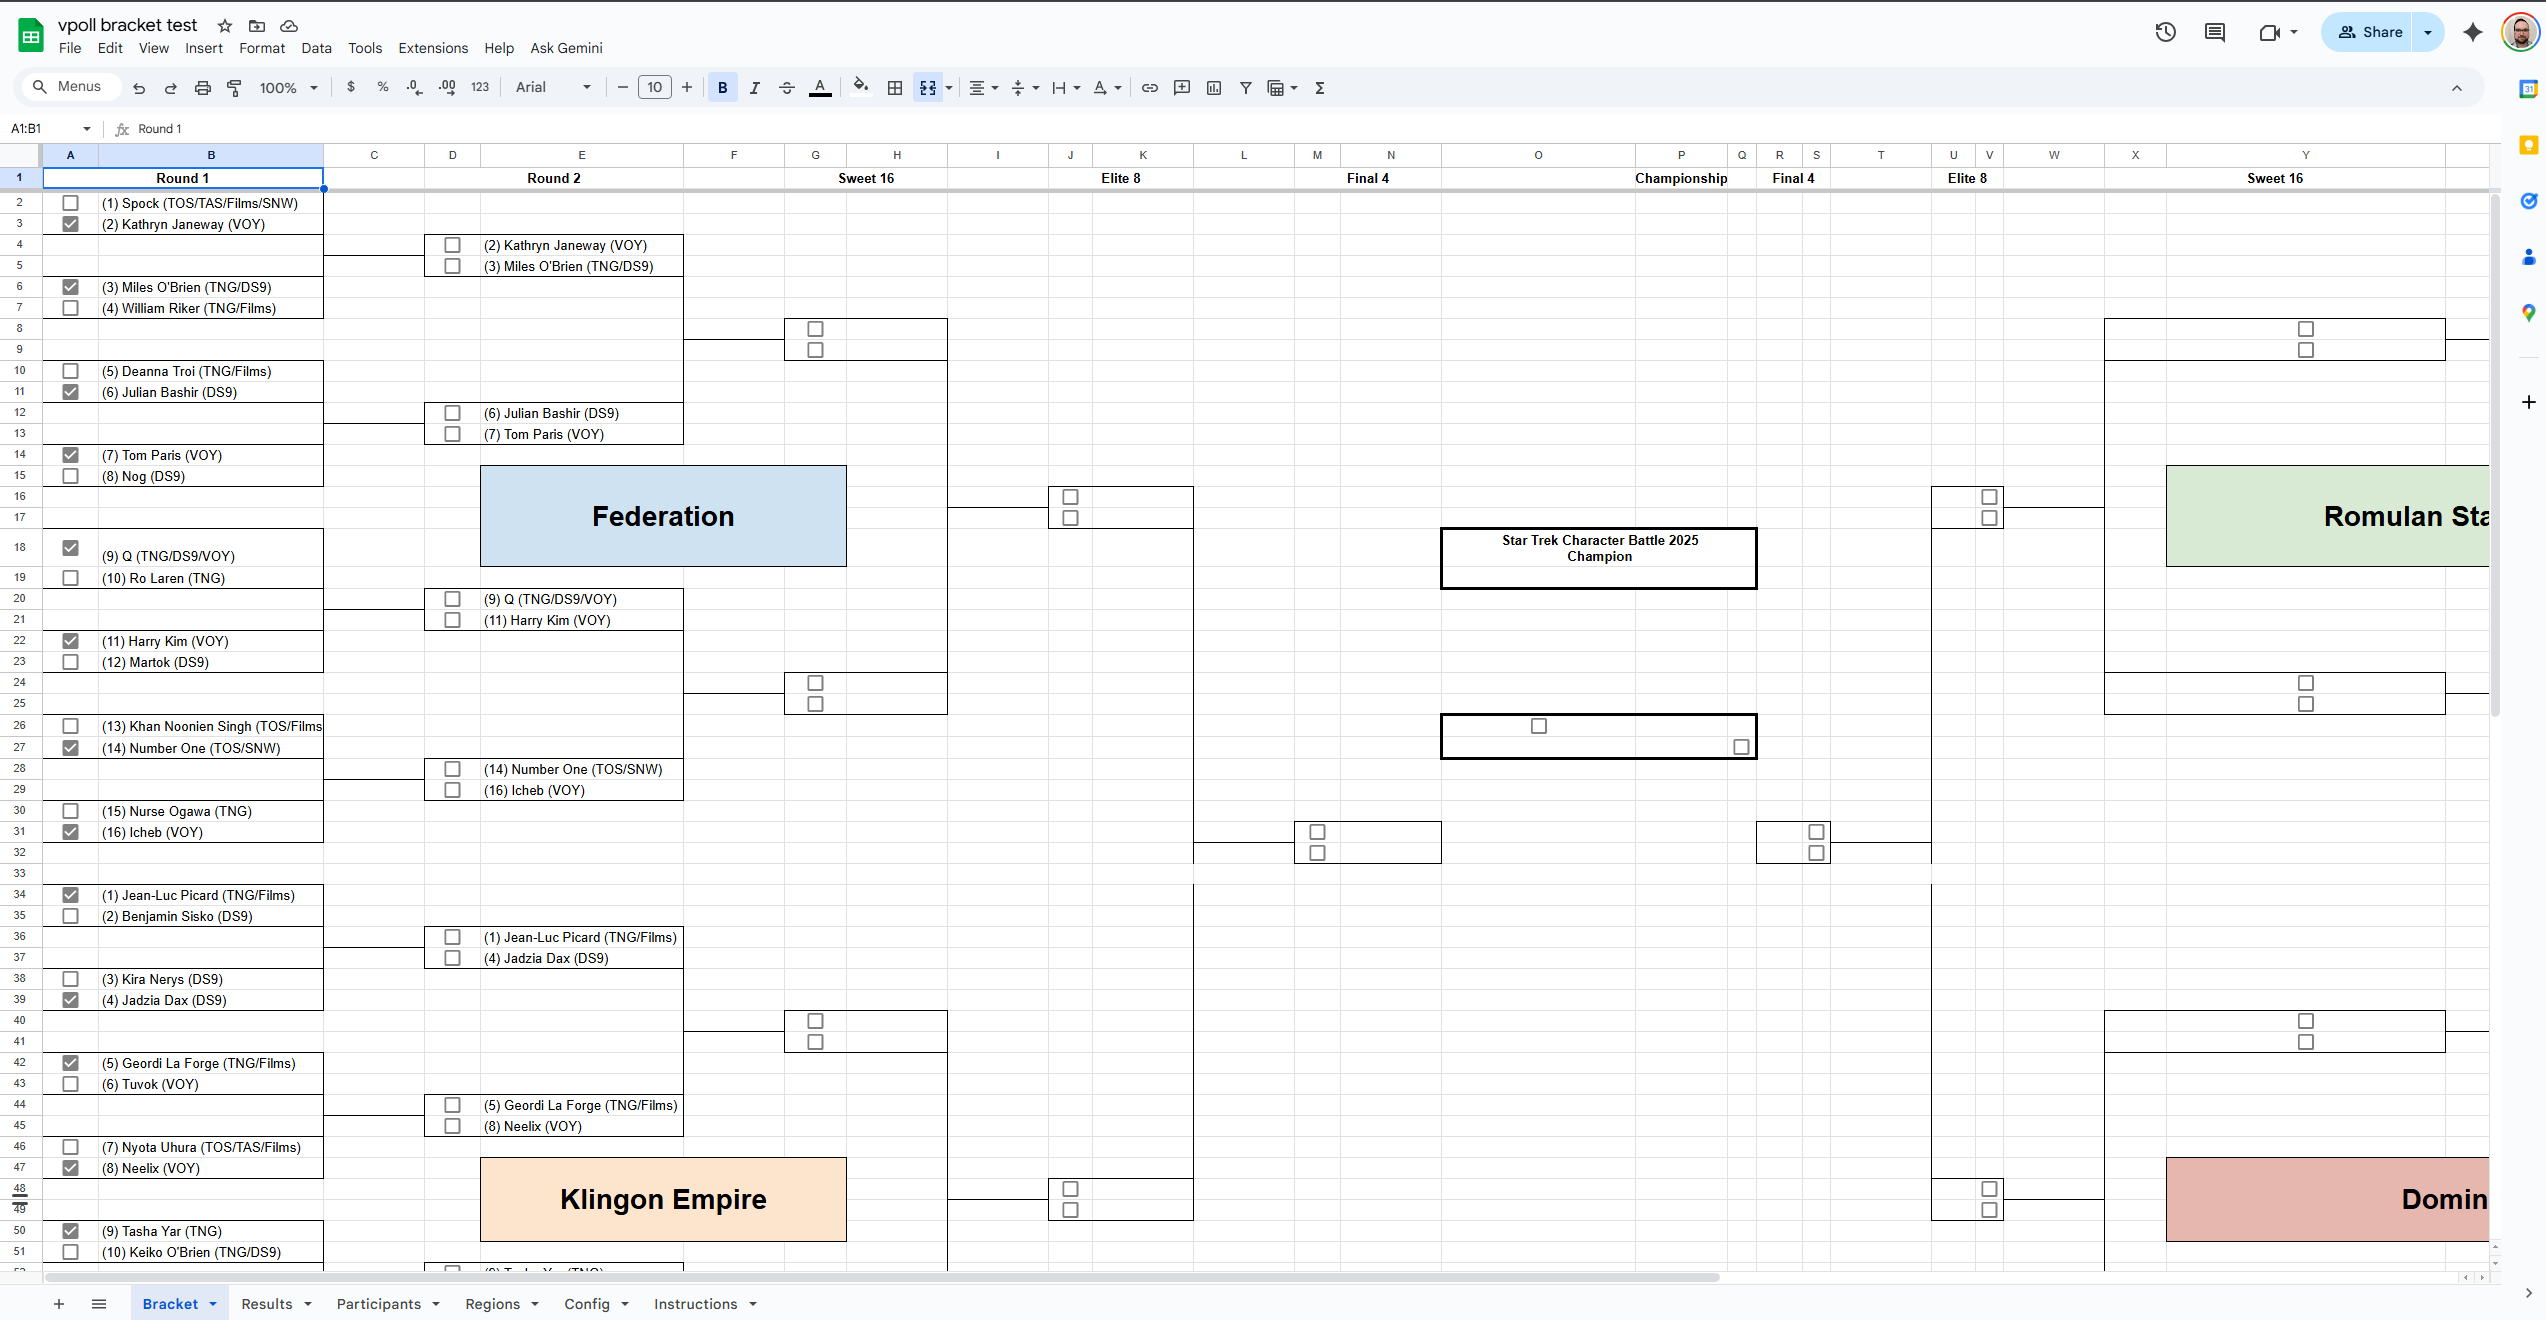
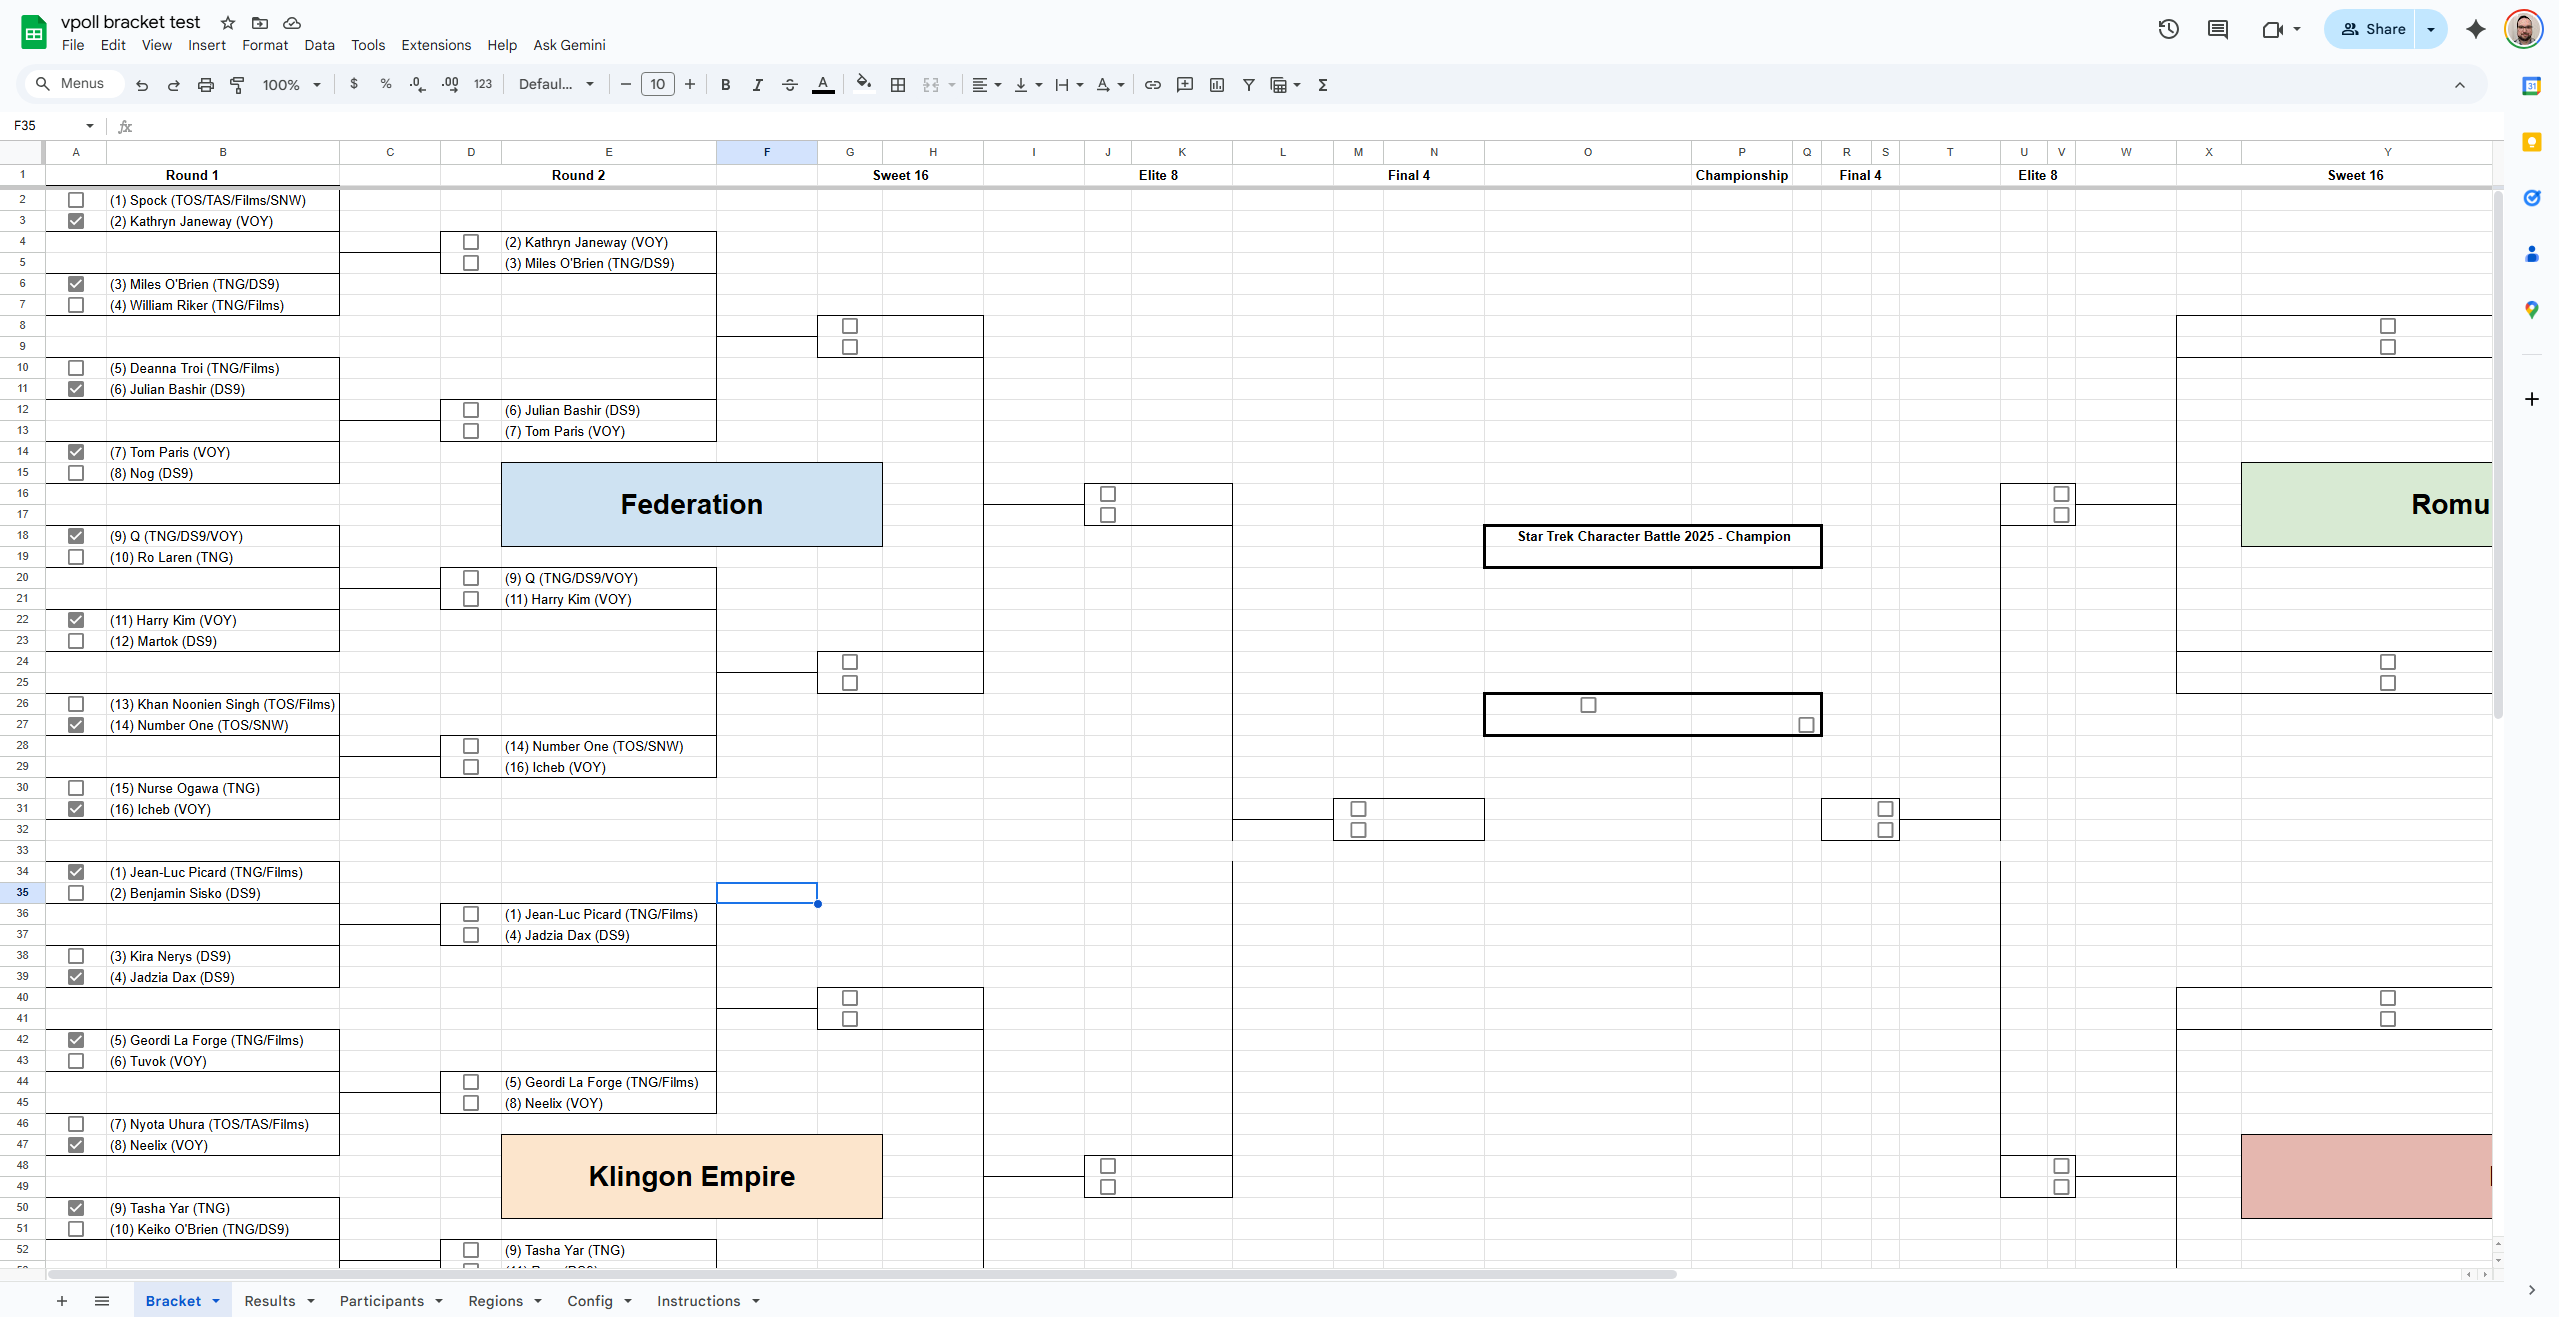
Update championship label format to remove hyphen separator
Changed formula from =Config!B3&" - Champion" to =Config!B3&" Champion" for cleaner single-line display.

Display format:
- Before: "Star Trek Character Battle 2025 - Champion"
- After: "Star Trek Character Battle 2025 Champion"

Files updated:
- src/fix-championship-clip.ts
- src/enhance-bracket-formatting.ts
- CHAMPIONSHIP_CLIP_FIX.md

🤖 Generated with [Claude Code](https://claude.com/claude-code)

diff --git a/src/fix-championship-clip.ts b/src/fix-championship-clip.ts
@@ -45,7 +45,7 @@ async function fixChampionshipClip() {
     range: 'Bracket!O18',
     valueInputOption: 'USER_ENTERED',
     requestBody: {
-      values: [['=Config!B3&" - Champion"']],
+      values: [['=Config!B3&" Champion"']],
     },
   });
 
@@ -115,11 +115,11 @@ async function fixChampionshipClip() {
 
   console.log('\n✅ Championship cell and row heights fixed!');
   console.log('\n📊 Summary:');
-  console.log('   ✓ Championship formula updated (=Config!B3&" - Champion")');
+  console.log('   ✓ Championship formula updated (=Config!B3&" Champion")');
   console.log('   ✓ Championship cell O18: CLIP (no wrapping)');
   console.log('   ✓ All rows set to uniform height (21 pixels)');
   console.log('   ✓ Text formatting maintained (10pt bold, centered)');
-  console.log('\n💡 Championship label displays: "Star Trek Character Battle 2025 - Champion"');
+  console.log('\n💡 Championship label displays: "Star Trek Character Battle 2025 Champion"');
   console.log('   All rows in column B (and entire bracket) now have consistent height');
 }
 

diff --git a/src/enhance-bracket-formatting.ts b/src/enhance-bracket-formatting.ts
@@ -100,7 +100,7 @@ async function enhanceBracketFormatting() {
     range: 'Bracket!O18',
     valueInputOption: 'USER_ENTERED',
     requestBody: {
-      values: [['=Config!B3&" - Champion"']],
+      values: [['=Config!B3&" Champion"']],
     },
   });
 
@@ -262,7 +262,7 @@ async function enhanceBracketFormatting() {
   console.log('\n📊 Summary:');
   console.log('   ✓ Row 1 frozen');
   console.log('   ✓ Row 1 text bolded (all columns)');
-  console.log('   ✓ Championship label updated with formula (=Config!B3&" - Champion")');
+  console.log('   ✓ Championship label updated with formula (=Config!B3&" Champion")');
   console.log('   ✓ Championship label: 10pt, bold, single-line display (no wrapping)');
   console.log('   ✓ Region names: 22pt, bold');
   console.log('   ✓ All columns auto-sized (A-AF)');

diff --git a/CHAMPIONSHIP_CLIP_FIX.md b/CHAMPIONSHIP_CLIP_FIX.md
@@ -39,9 +39,9 @@ This made column B and other columns look uneven.
   ```
 
 **Changed to:**
-- Formula: `=Config!B3&" - Champion"`
+- Formula: `=Config!B3&" Champion"`
 - Wrap strategy: `CLIP` (no text wrapping)
-- Display format: `Star Trek Character Battle 2025 - Champion`
+- Display format: `Star Trek Character Battle 2025 Champion`
 
 ### Uniform Row Heights
 
@@ -96,17 +96,17 @@ for (let rowIndex = 0; rowIndex < 65; rowIndex++) {
 ❌ **Row heights:** Variable (some stretched due to wrapping)
 
 ### After
-✅ **Championship label:** Single line "Tournament Name - Champion"
+✅ **Championship label:** Single line "Tournament Name Champion"
 ✅ **Wrap strategy:** CLIP (no wrapping)
 ✅ **Row heights:** Uniform 21 pixels across all 65 rows
-✅ **Formula:** `=Config!B3&" - Champion"`
+✅ **Formula:** `=Config!B3&" Champion"`
 ✅ **Text formatting:** 10pt bold, centered (maintained)
 
 ## Verification
 
 ### Championship Cell
-✅ **Formula:** `=Config!B3&" - Champion"`
-✅ **Display:** Single line (e.g., "Star Trek Character Battle 2025 - Champion")
+✅ **Formula:** `=Config!B3&" Champion"`
+✅ **Display:** Single line (e.g., "Star Trek Character Battle 2025 Champion")
 ✅ **Wrap strategy:** CLIP
 ✅ **Font:** 10pt bold
 ✅ **Alignment:** Center, Middle
@@ -130,7 +130,7 @@ textFormat: { bold: true, fontSize: 10 },
 
 Formula updated:
 ```typescript
-values: [['=Config!B3&" - Champion"']]
+values: [['=Config!B3&" Champion"']]
 ```
 
 Future brackets will use single-line format automatically.
@@ -168,8 +168,8 @@ Creates brackets with single-line championship label from the start.
 - Better horizontal space utilization
 
 **Format:**
-- Separator: " - " (space-hyphen-space)
-- Example: "Star Trek Character Battle 2025 - Champion"
+- Separator: Single space
+- Example: "Star Trek Character Battle 2025 Champion"
 - Merged cell O18:Q18 provides adequate width
 
 ### Why 21 Pixels?
